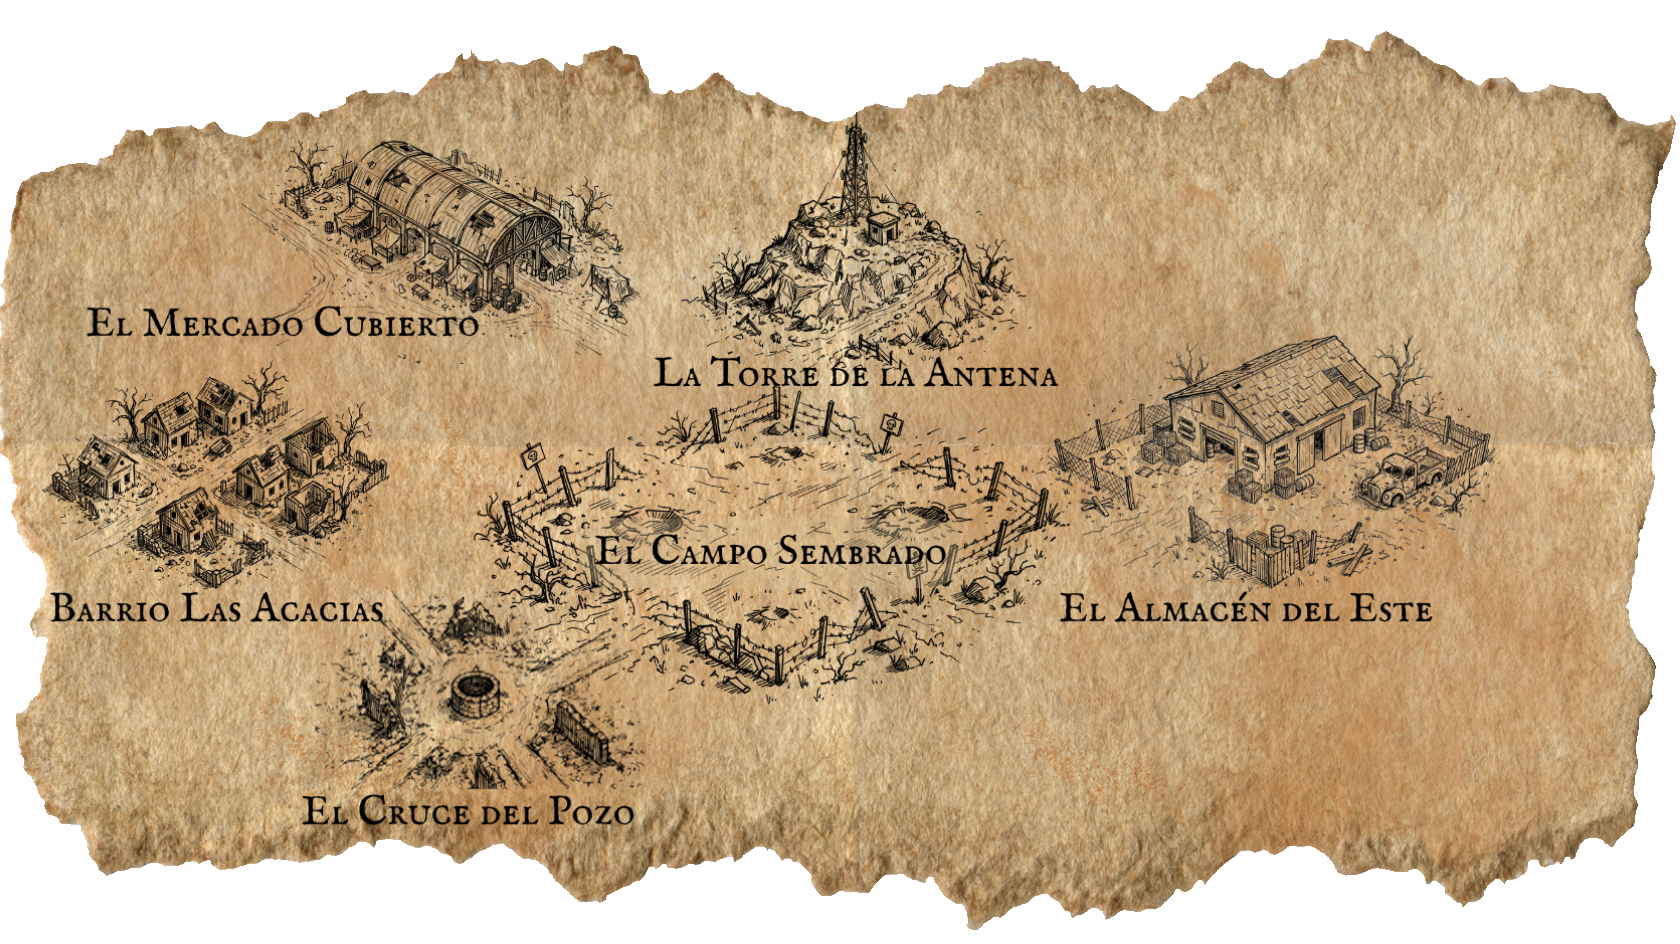
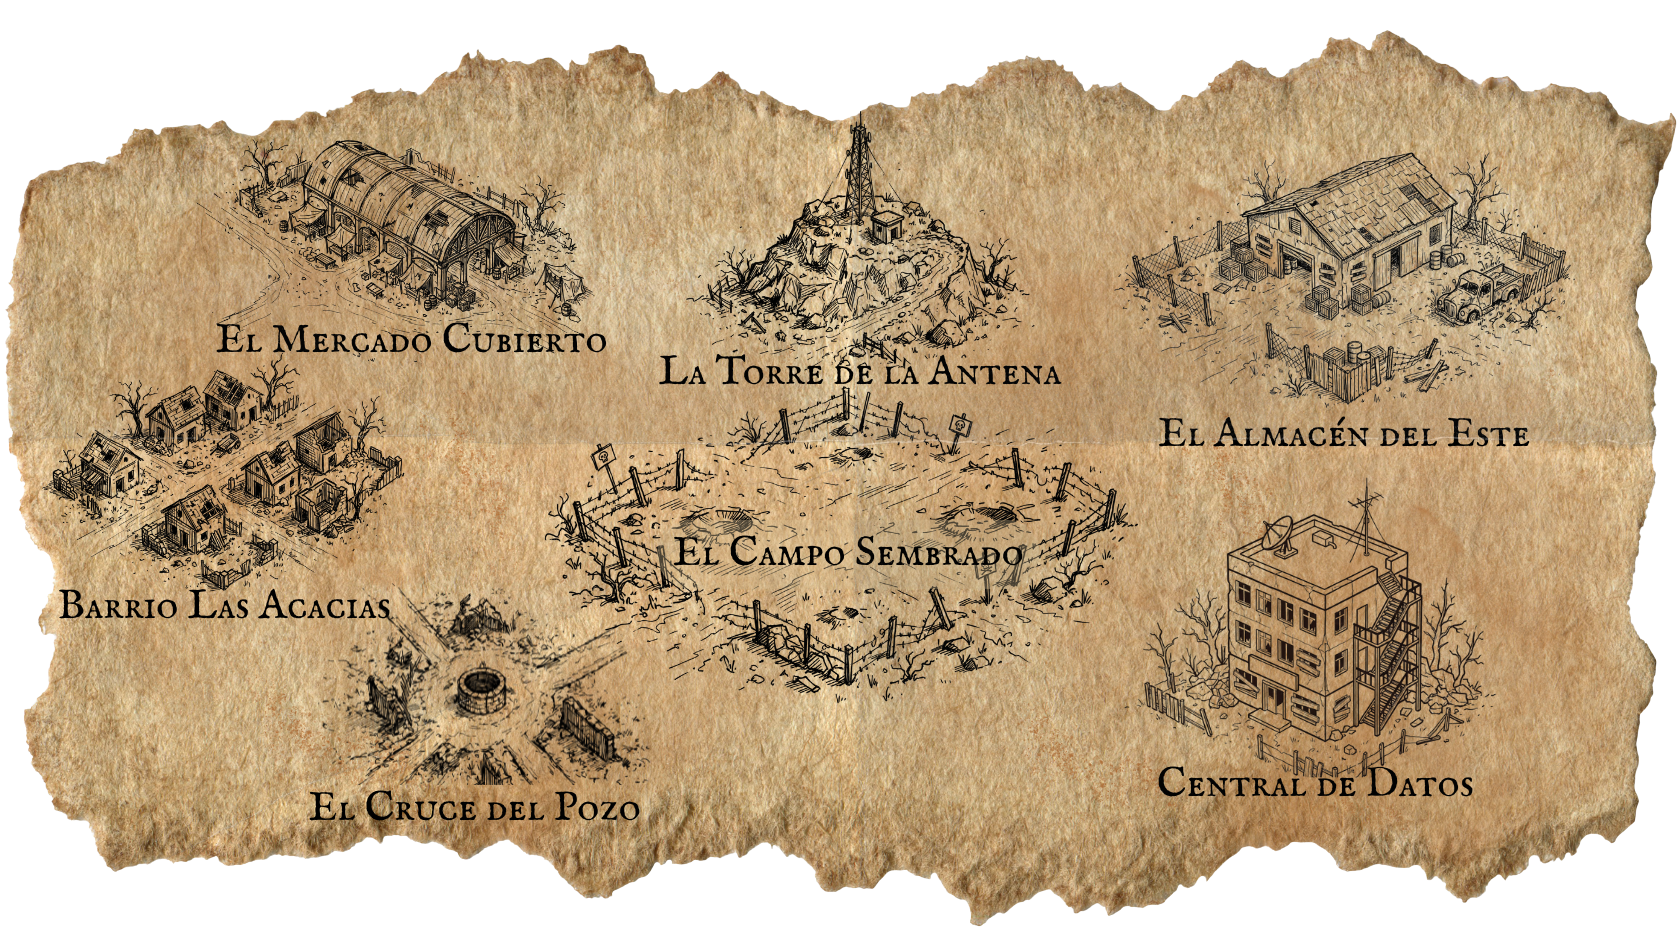
Mapa: nueva Central de Datos, almacen reubicado y zonas de niebla mas grandes

diff --git a/Juego/Eventos/Mapa.py b/Juego/Eventos/Mapa.py
@@ -57,23 +57,24 @@ class Grafo:
 
 
 LUGARES = {
-    "El Cruce del Pozo":     {"punto": (0.280, 0.731), "zona": (0.283, 0.794, 0.113, 0.122)},
+    "El Cruce del Pozo":     {"punto": (0.280, 0.731), "zona": (0.285, 0.760, 0.135, 0.170)},
     "Barrio Las Acacias":    {"punto": (0.128, 0.498), "zona": (0.128, 0.551, 0.116, 0.148)},
     "El Mercado Cubierto":   {"punto": (0.268, 0.233), "zona": (0.214, 0.280, 0.170, 0.130)},
     "La Torre de la Antena": {"punto": (0.512, 0.244), "zona": (0.512, 0.307, 0.137, 0.159)},
-    "El Campo Sembrado":     {"punto": (0.458, 0.551), "zona": (0.464, 0.593, 0.155, 0.138)},
-    "El Almacén del Este":   {"punto": (0.756, 0.487), "zona": (0.747, 0.551, 0.146, 0.159)},
-}
+    "El Campo Sembrado":     {"punto": (0.458, 0.551), "zona": (0.500, 0.580, 0.200, 0.190)},
+    "El Almacén del Este":   {"punto": (0.798, 0.244), "zona": (0.800, 0.310, 0.185, 0.215)},
+    "Central de Datos":      {"punto": (0.780, 0.646), "zona": (0.780, 0.700, 0.150, 0.200)},    }
 
 # Camino de cada personaje: lugar del Evento 1, Evento 2, Evento 3...
 RUTAS = {
-    "LÍDER":         ["El Cruce del Pozo", "El Campo Sembrado", "El Almacén del Este"],
-    "SOBREVIVIENTE": ["Barrio Las Acacias", "El Campo Sembrado", "El Almacén del Este"],
-    "CRONISTA":      ["El Mercado Cubierto", "El Campo Sembrado", "El Almacén del Este"],
-    "VOZ":           ["La Torre de la Antena", "El Campo Sembrado", "El Almacén del Este"],
+        "LÍDER":         ["El Cruce del Pozo", "El Campo Sembrado", "El Almacén del Este", "Central de Datos"],
+    "SOBREVIVIENTE": ["Barrio Las Acacias", "El Campo Sembrado", "El Almacén del Este", "Central de Datos"],
+    "CRONISTA":      ["El Mercado Cubierto", "El Campo Sembrado", "El Almacén del Este", "Central de Datos"],
+    "VOZ":           ["La Torre de la Antena", "El Campo Sembrado", "El Almacén del Este", "Central de Datos"],
 }
-PESOS = {("El Campo Sembrado", "El Almacén del Este"): 6}   # el resto pesa 8 (cruzar el campo)
 
+
+PESOS = {("El Campo Sembrado", "El Almacén del Este"): 6, ("El Almacén del Este", "Central de Datos"): 4}
 
 # NIEBLA (nubes que se mueven)
 import numpy as np
